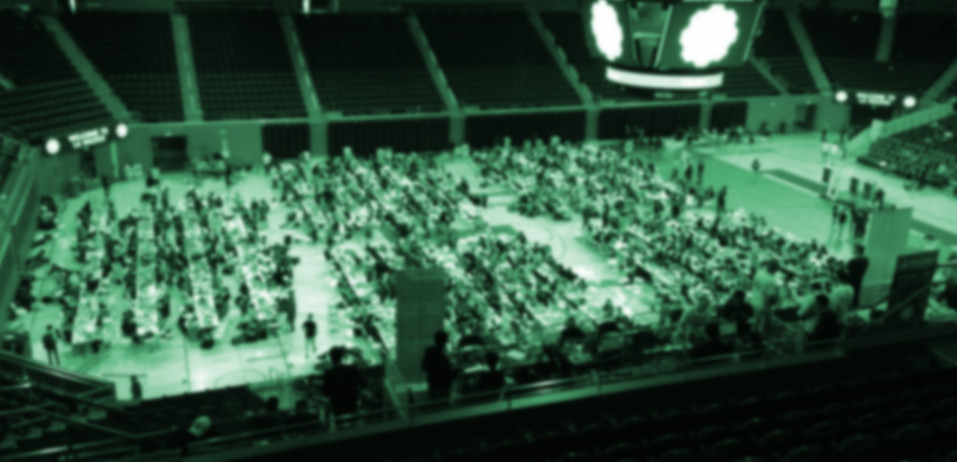
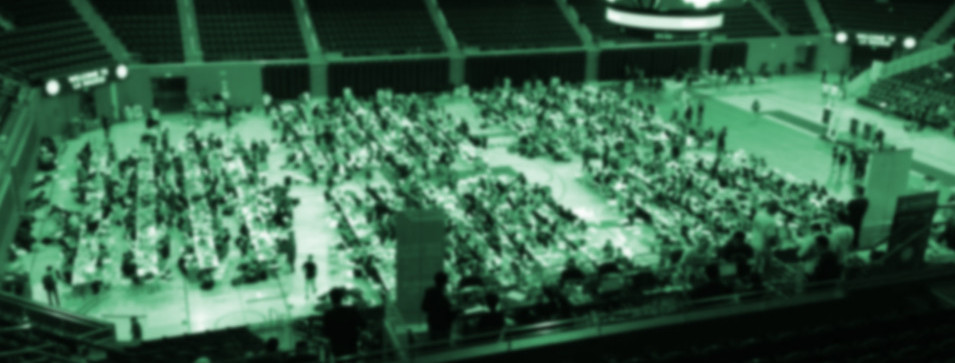
new background

diff --git a/public/javascripts/jquery.backstretch.min.js b/public/javascripts/jquery.backstretch.min.js
@@ -1,0 +1,4 @@
+/*! Backstretch - v2.0.4 - 2013-06-19
+* http://srobbin.com/jquery-plugins/backstretch/
+* Copyright (c) 2013 Scott Robbin; Licensed MIT */
+(function(a,d,p){a.fn.backstretch=function(c,b){(c===p||0===c.length)&&a.error("No images were supplied for Backstretch");0===a(d).scrollTop()&&d.scrollTo(0,0);return this.each(function(){var d=a(this),g=d.data("backstretch");if(g){if("string"==typeof c&&"function"==typeof g[c]){g[c](b);return}b=a.extend(g.options,b);g.destroy(!0)}g=new q(this,c,b);d.data("backstretch",g)})};a.backstretch=function(c,b){return a("body").backstretch(c,b).data("backstretch")};a.expr[":"].backstretch=function(c){return a(c).data("backstretch")!==p};a.fn.backstretch.defaults={centeredX:!0,centeredY:!0,duration:5E3,fade:0};var r={left:0,top:0,overflow:"hidden",margin:0,padding:0,height:"100%",width:"100%",zIndex:-999999},s={position:"absolute",display:"none",margin:0,padding:0,border:"none",width:"auto",height:"auto",maxHeight:"none",maxWidth:"none",zIndex:-999999},q=function(c,b,e){this.options=a.extend({},a.fn.backstretch.defaults,e||{});this.images=a.isArray(b)?b:[b];a.each(this.images,function(){a("<img />")[0].src=this});this.isBody=c===document.body;this.$container=a(c);this.$root=this.isBody?l?a(d):a(document):this.$container;c=this.$container.children(".backstretch").first();this.$wrap=c.length?c:a('<div class="backstretch"></div>').css(r).appendTo(this.$container);this.isBody||(c=this.$container.css("position"),b=this.$container.css("zIndex"),this.$container.css({position:"static"===c?"relative":c,zIndex:"auto"===b?0:b,background:"none"}),this.$wrap.css({zIndex:-999998}));this.$wrap.css({position:this.isBody&&l?"fixed":"absolute"});this.index=0;this.show(this.index);a(d).on("resize.backstretch",a.proxy(this.resize,this)).on("orientationchange.backstretch",a.proxy(function(){this.isBody&&0===d.pageYOffset&&(d.scrollTo(0,1),this.resize())},this))};q.prototype={resize:function(){try{var a={left:0,top:0},b=this.isBody?this.$root.width():this.$root.innerWidth(),e=b,g=this.isBody?d.innerHeight?d.innerHeight:this.$root.height():this.$root.innerHeight(),j=e/this.$img.data("ratio"),f;j>=g?(f=(j-g)/2,this.options.centeredY&&(a.top="-"+f+"px")):(j=g,e=j*this.$img.data("ratio"),f=(e-b)/2,this.options.centeredX&&(a.left="-"+f+"px"));this.$wrap.css({width:b,height:g}).find("img:not(.deleteable)").css({width:e,height:j}).css(a)}catch(h){}return this},show:function(c){if(!(Math.abs(c)>this.images.length-1)){var b=this,e=b.$wrap.find("img").addClass("deleteable"),d={relatedTarget:b.$container[0]};b.$container.trigger(a.Event("backstretch.before",d),[b,c]);this.index=c;clearInterval(b.interval);b.$img=a("<img />").css(s).bind("load",function(f){var h=this.width||a(f.target).width();f=this.height||a(f.target).height();a(this).data("ratio",h/f);a(this).fadeIn(b.options.speed||b.options.fade,function(){e.remove();b.paused||b.cycle();a(["after","show"]).each(function(){b.$container.trigger(a.Event("backstretch."+this,d),[b,c])})});b.resize()}).appendTo(b.$wrap);b.$img.attr("src",b.images[c]);return b}},next:function(){return this.show(this.index<this.images.length-1?this.index+1:0)},prev:function(){return this.show(0===this.index?this.images.length-1:this.index-1)},pause:function(){this.paused=!0;return this},resume:function(){this.paused=!1;this.next();return this},cycle:function(){1<this.images.length&&(clearInterval(this.interval),this.interval=setInterval(a.proxy(function(){this.paused||this.next()},this),this.options.duration));return this},destroy:function(c){a(d).off("resize.backstretch orientationchange.backstretch");clearInterval(this.interval);c||this.$wrap.remove();this.$container.removeData("backstretch")}};var l,f=navigator.userAgent,m=navigator.platform,e=f.match(/AppleWebKit\/([0-9]+)/),e=!!e&&e[1],h=f.match(/Fennec\/([0-9]+)/),h=!!h&&h[1],n=f.match(/Opera Mobi\/([0-9]+)/),t=!!n&&n[1],k=f.match(/MSIE ([0-9]+)/),k=!!k&&k[1];l=!((-1<m.indexOf("iPhone")||-1<m.indexOf("iPad")||-1<m.indexOf("iPod"))&&e&&534>e||d.operamini&&"[object OperaMini]"==={}.toString.call(d.operamini)||n&&7458>t||-1<f.indexOf("Android")&&e&&533>e||h&&6>h||"palmGetResource"in d&&e&&534>e||-1<f.indexOf("MeeGo")&&-1<f.indexOf("NokiaBrowser/8.5.0")||k&&6>=k)})(jQuery,window);

diff --git a/public/stylesheets/main.css b/public/stylesheets/main.css
@@ -149,7 +149,7 @@ a:after {
 
 /* Green */
 .orange {
-	background-color: #43CD80;
+	background-color: #ED9121;
 	padding-top: 50px;
 	padding-bottom: 50px;
 	margin-bottom: 0px;
